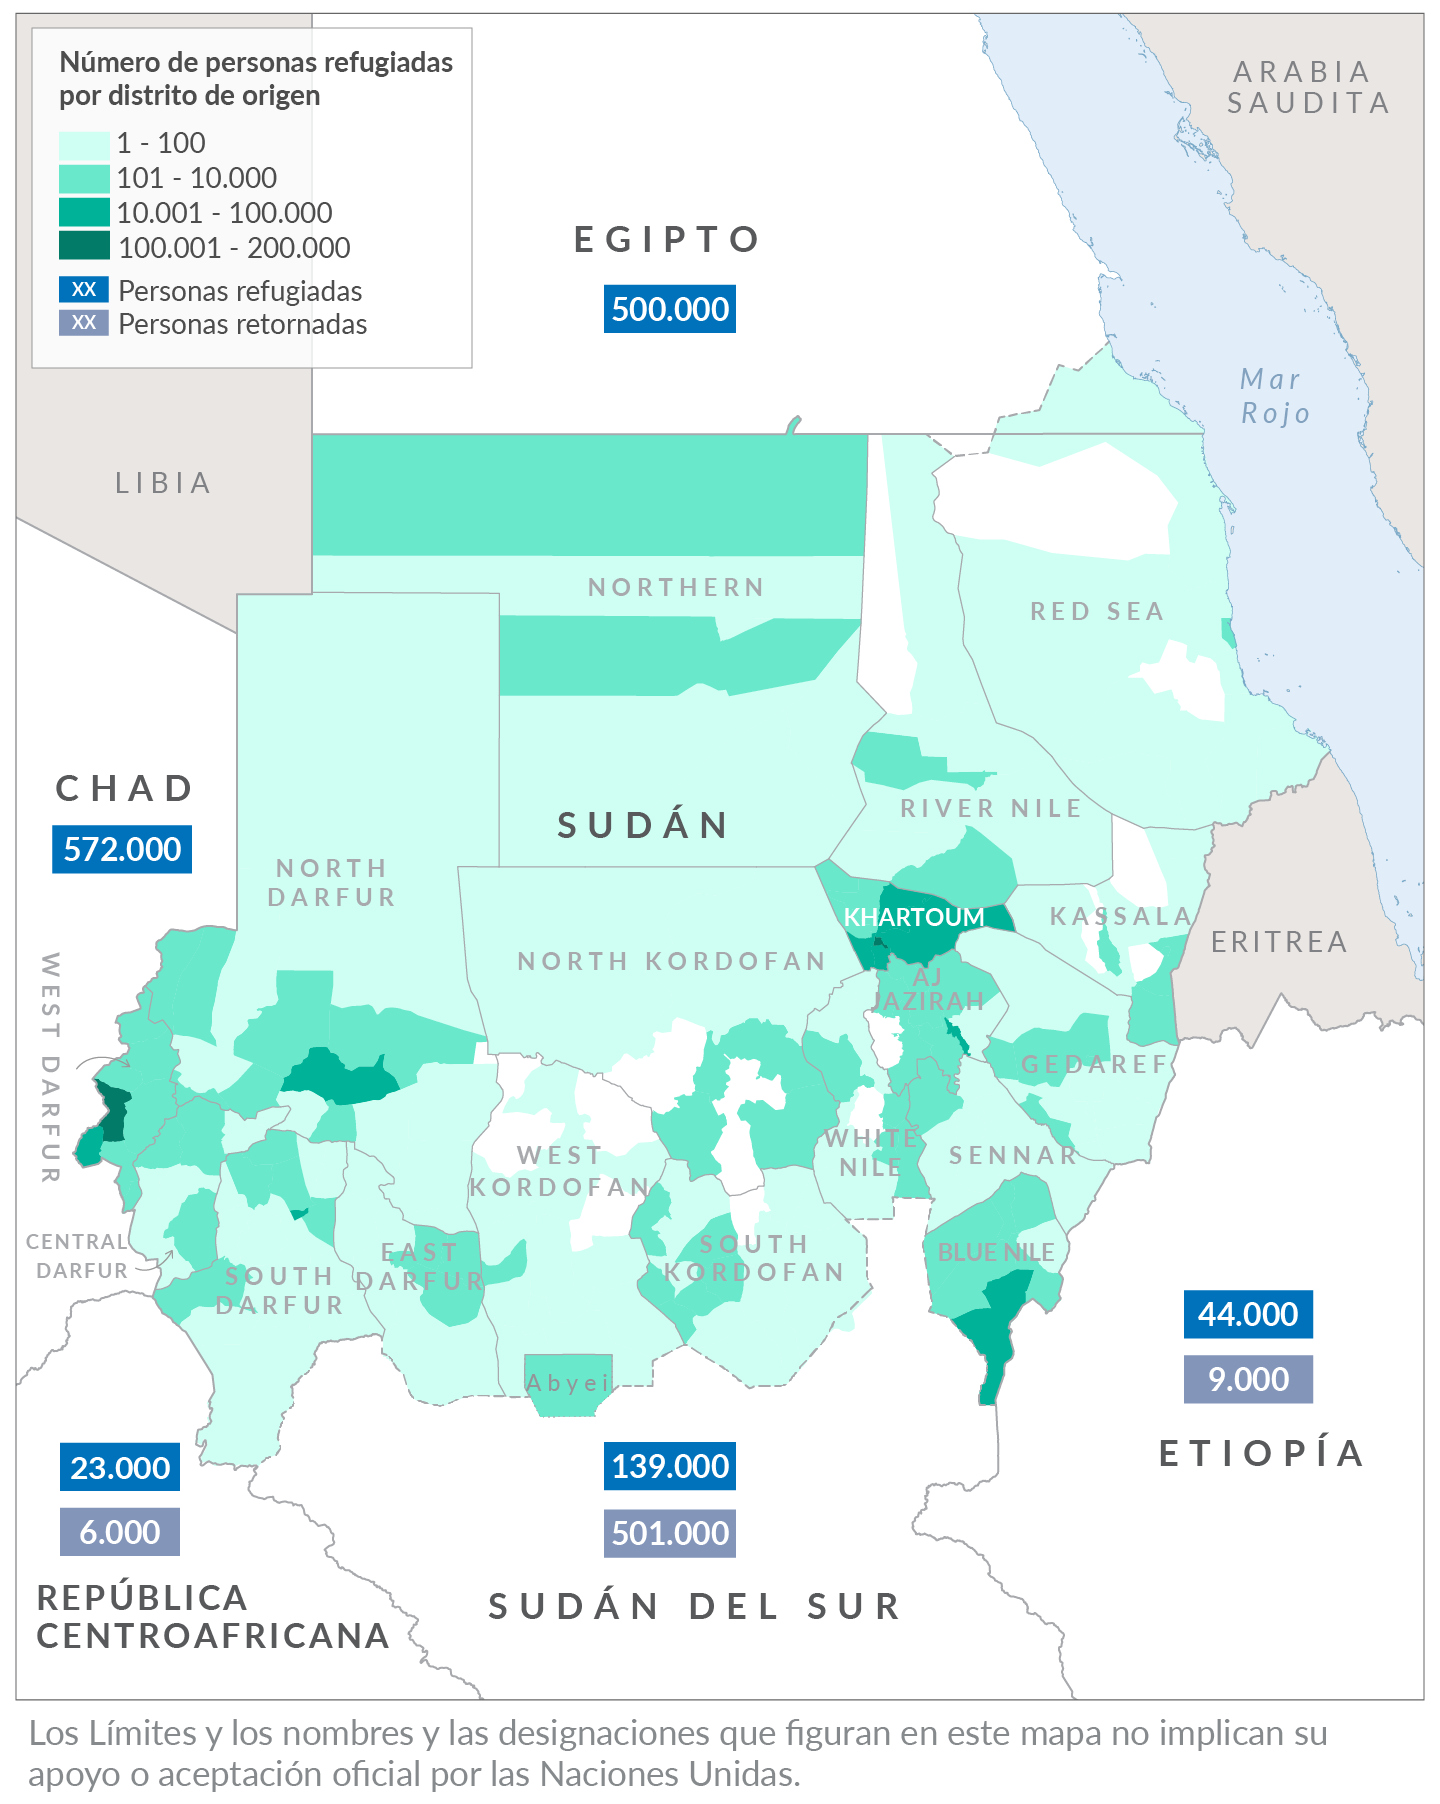
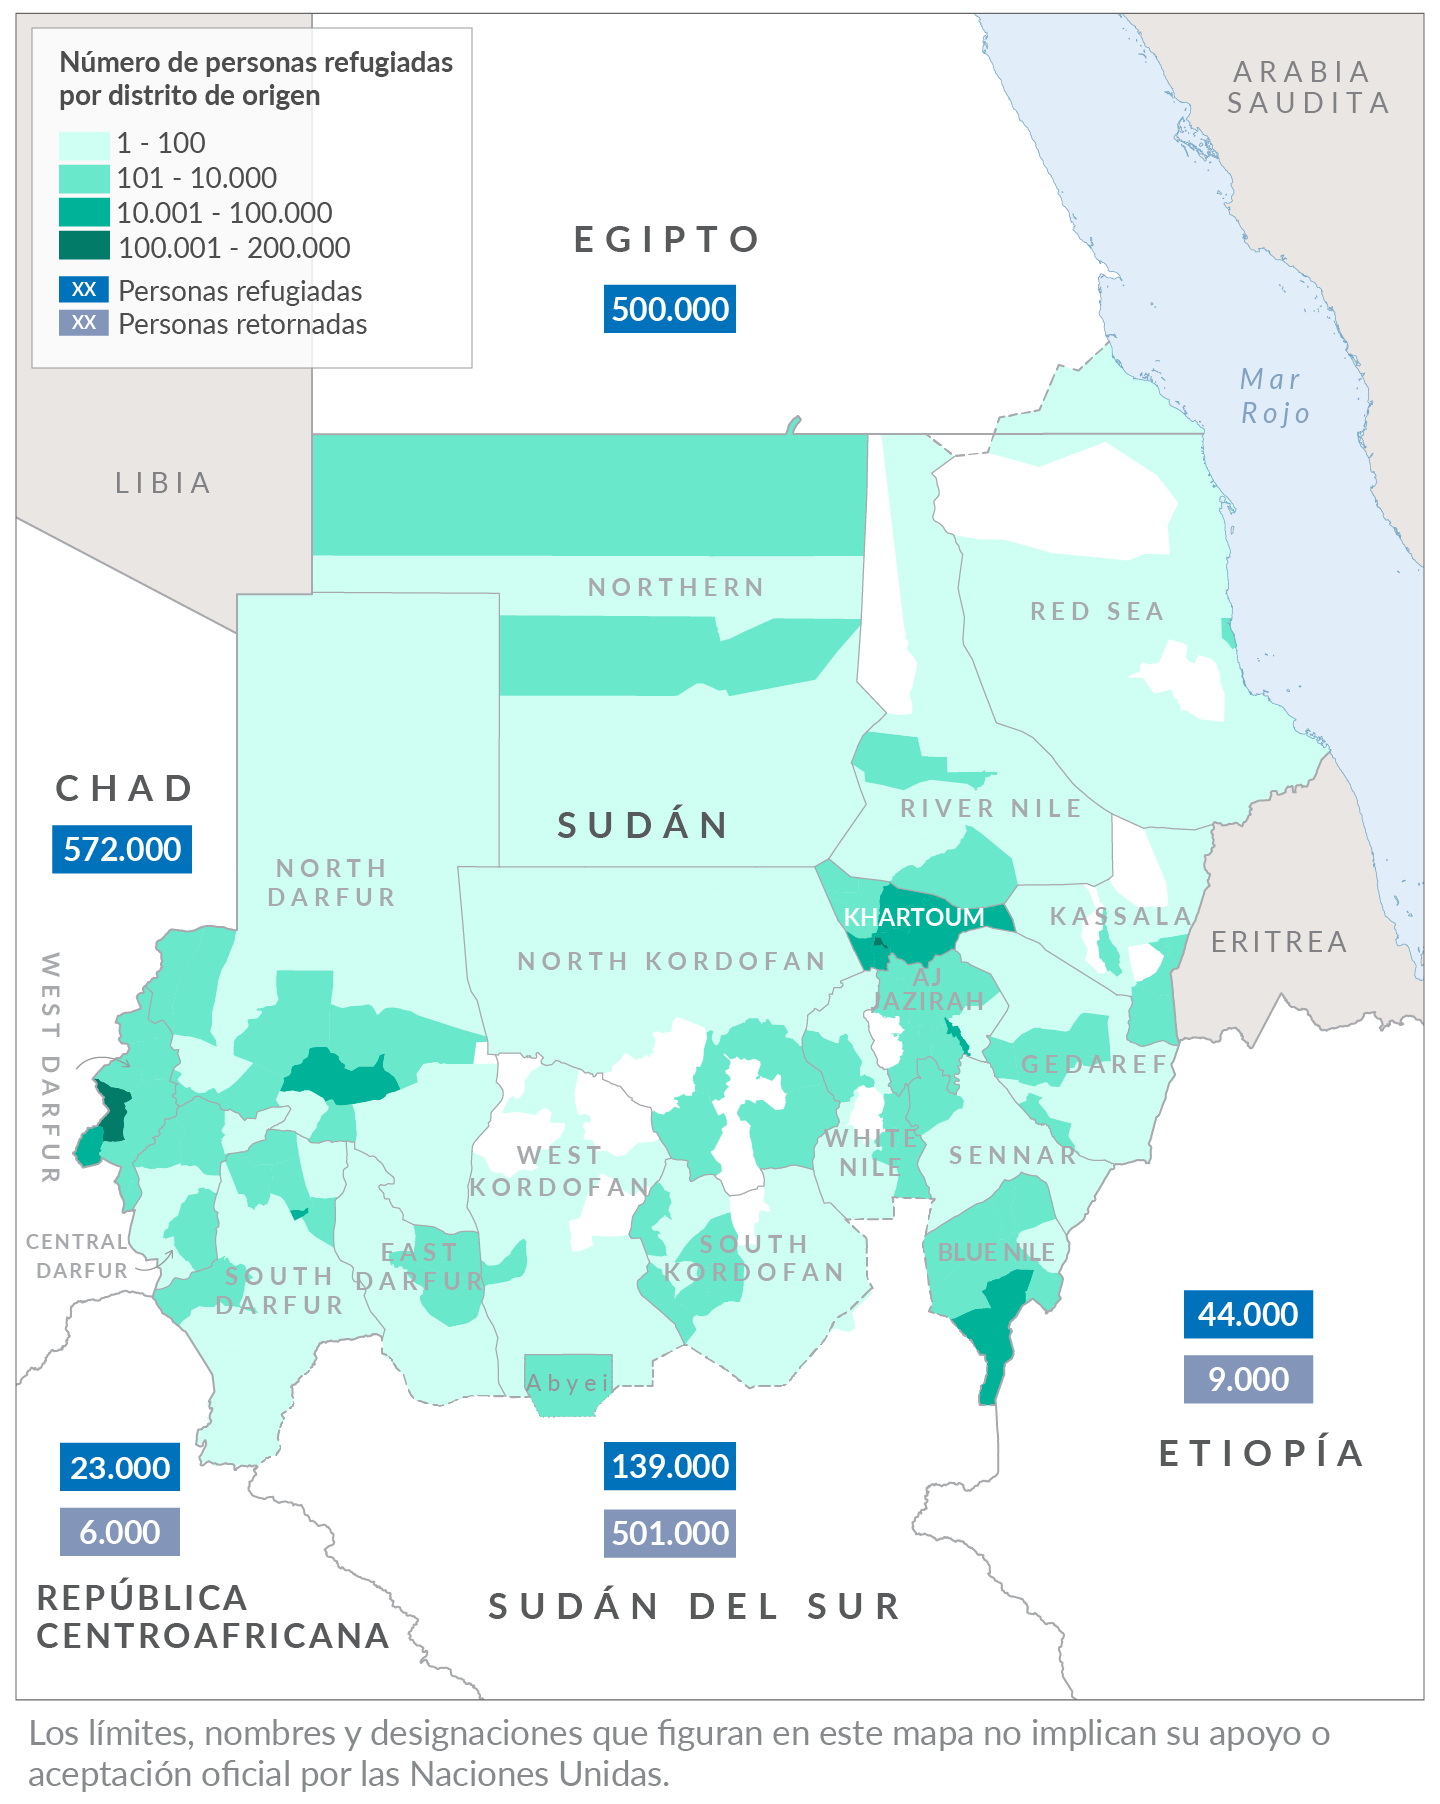
fix sdn es typo and add to product page

diff --git a/app/products/gotm/2024-04/soudan-un-an-conflit.html b/app/products/gotm/2024-04/soudan-un-an-conflit.html
@@ -54,7 +54,7 @@
         <div class="col col-lg-8">
           <h2>Soudan&nbsp;: un an de conflit et de déplacement forcé</h2>
           <!-- <p class="lead">To Be Defined</p> -->
-          <p>11 avril 2024 <span class="text-secondary">| Egalement disponible en&nbsp;: <a href="https://dataviz.unhcr.org/products/gotm/2024-04/sudan-one-year-spiralling-conflict.html">English</a></span></p>
+          <p>11 avril 2024 <span class="text-secondary">| Egalement disponible en&nbsp;: <a href="https://dataviz.unhcr.org/products/gotm/2024-04/sudan-one-year-spiralling-conflict.html">English</a> | <a href="https://dataviz.unhcr.org/products/gotm/2024-04/conflicto-sudan-desplazamiento-al-alza.html">Español</a></span></p>
           <hr>
           <!-- <div class="my-4"><script type="text/javascript" defer src="https://datawrapper.dwcdn.net/x2pxs/embed.js" charset="utf-8"></script><noscript><img src="https://datawrapper.dwcdn.net/x2pxs/full.png" alt="" /></noscript></div>
           <p class="mb-4">

diff --git a/app/products/gotm/2024-04/sudan-one-year-spiralling-conflict.html b/app/products/gotm/2024-04/sudan-one-year-spiralling-conflict.html
@@ -54,7 +54,7 @@
         <div class="col col-lg-8">
           <h2>Sudan: One year of spiralling conflict and displacement</h2>
           <!-- <p class="lead">To Be Defined</p> -->
-          <p>11 April 2024 <span class="text-secondary">| Also available in: <a href="https://dataviz.unhcr.org/products/gotm/2024-04/soudan-un-an-conflit.html">Français</a></span></p>
+          <p>11 April 2024 <span class="text-secondary">| Also available in: <a href="https://dataviz.unhcr.org/products/gotm/2024-04/soudan-un-an-conflit.html">Français</a> | <a href="https://dataviz.unhcr.org/products/gotm/2024-04/conflicto-sudan-desplazamiento-al-alza.html">Español</a></span></p>
           <hr>
           <!-- <div class="my-4"><script type="text/javascript" defer src="https://datawrapper.dwcdn.net/x2pxs/embed.js" charset="utf-8"></script><noscript><img src="https://datawrapper.dwcdn.net/x2pxs/full.png" alt="" /></noscript></div>
           <p class="mb-4">

diff --git a/app/products/index.html b/app/products/index.html
@@ -137,7 +137,7 @@
                 </p>
                 <p class="card-text small text-muted">
                   Version:
-                  <a href="https://dataviz.unhcr.org/products/gotm/2024-04/sudan-one-year-spiralling-conflict.html">English</a> | <a href="https://dataviz.unhcr.org/products/gotm/2024-04/soudan-un-an-conflit.html">Français</a>
+                  <a href="https://dataviz.unhcr.org/products/gotm/2024-04/sudan-one-year-spiralling-conflict.html">English</a> | <a href="https://dataviz.unhcr.org/products/gotm/2024-04/soudan-un-an-conflit.html">Français</a> |  | <a href="https://dataviz.unhcr.org/products/gotm/2024-04/conflicto-sudan-desplazamiento-al-alza.html">Español</a>
                 </p>
                 <p class="card-text small text-muted">
                   Type:
